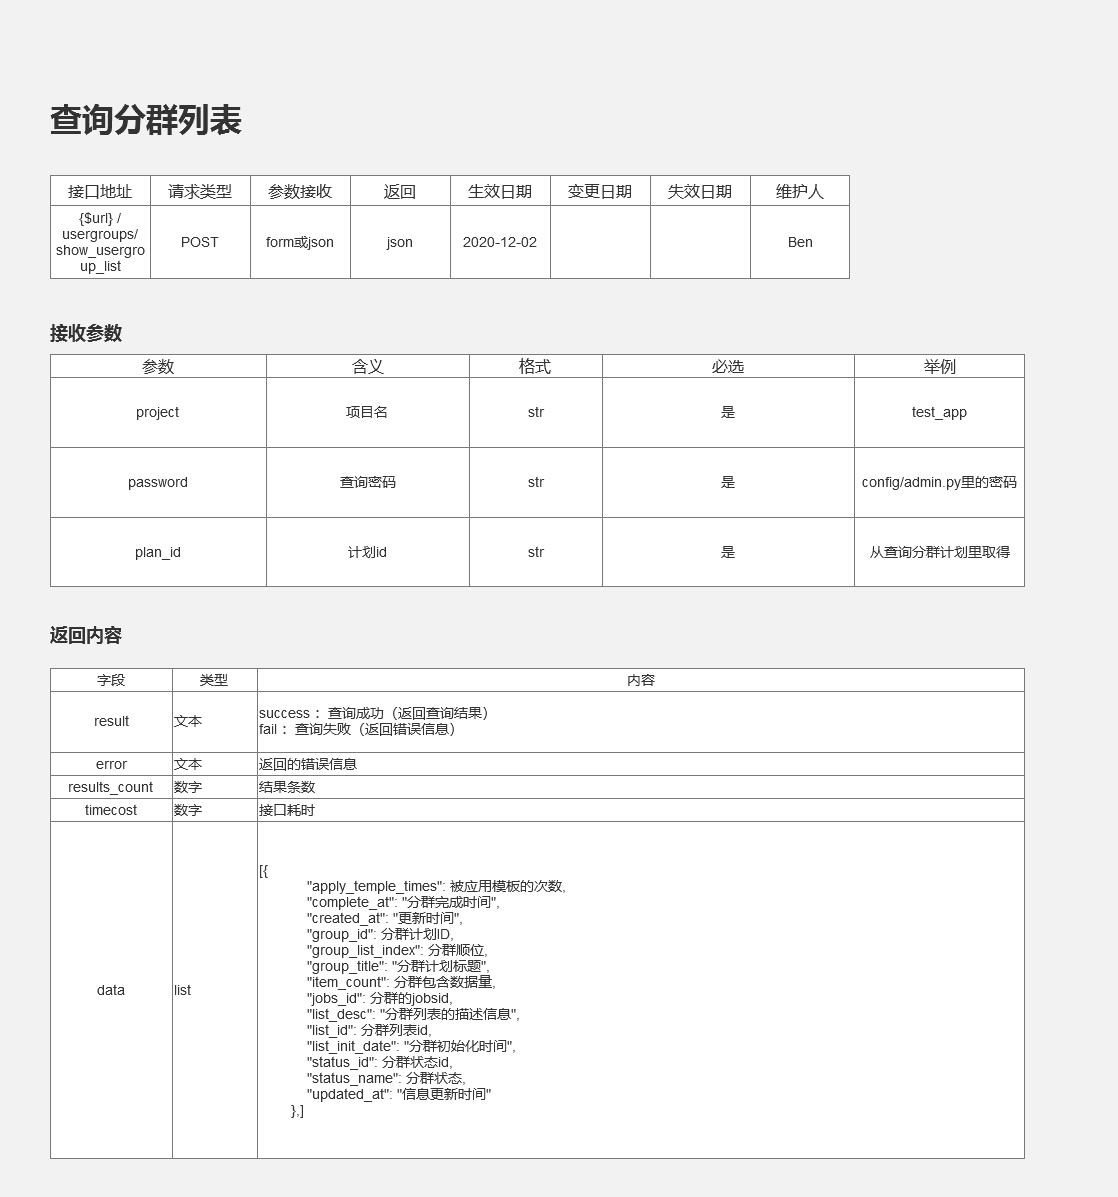
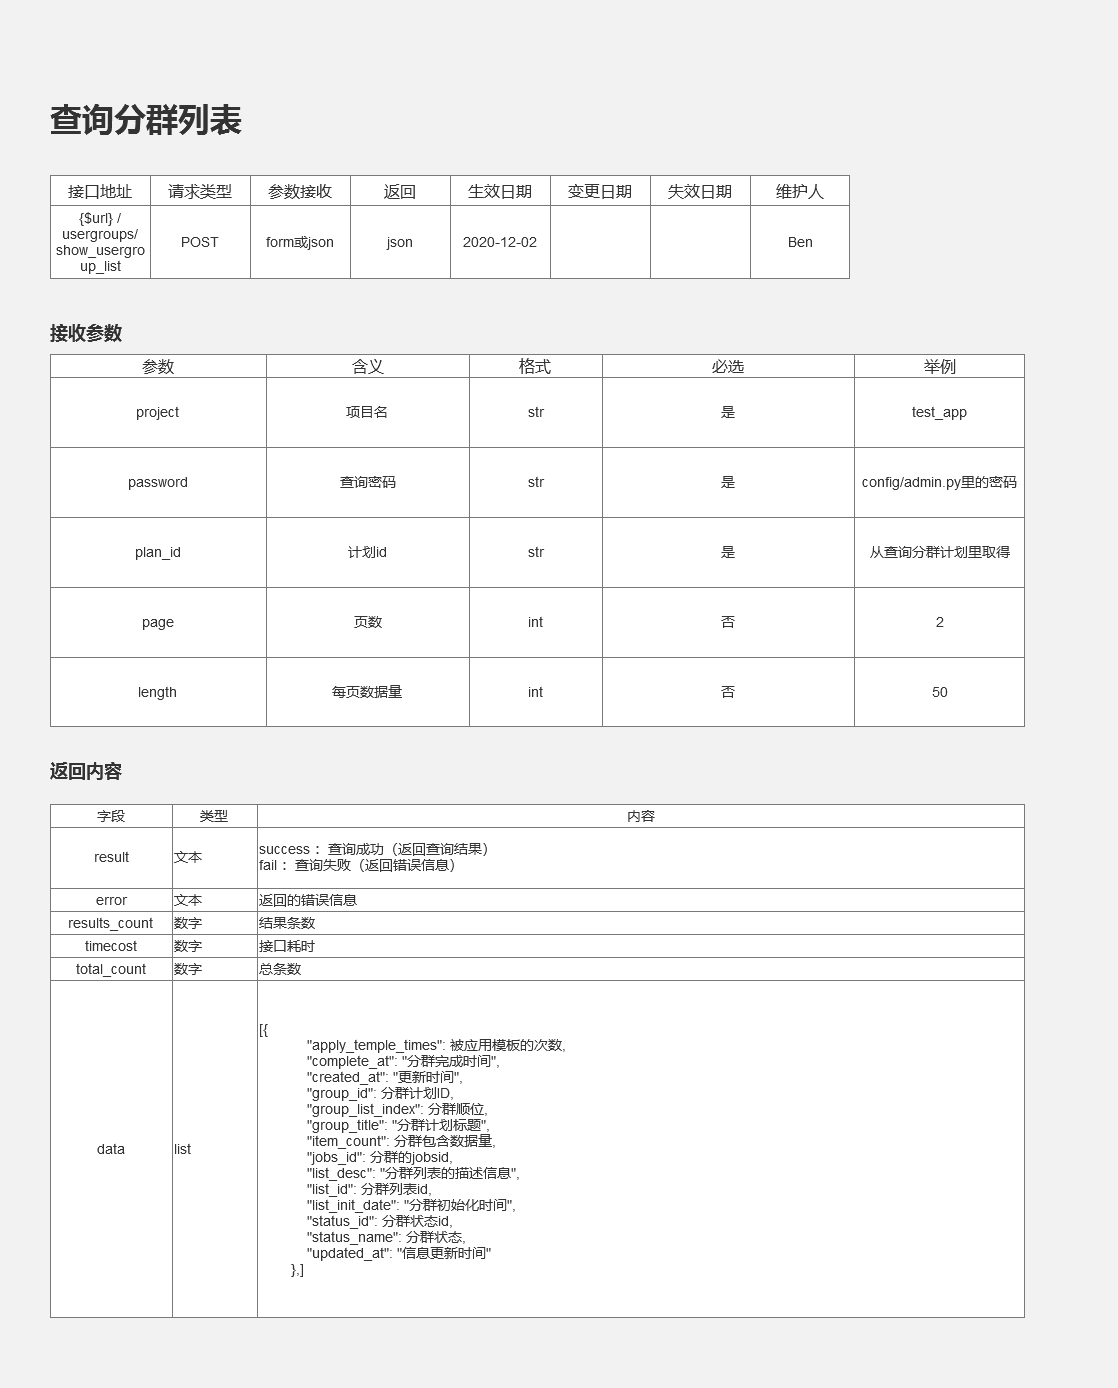
1.推送消息列表接口提供分群信息便于查询 2.修复用户分群计划和用户分群列表不支持分页的问题

diff --git a/component/api_noti.py b/component/api_noti.py
@@ -11,7 +11,7 @@ from component.public_value import get_next_time
 import time
 from flask import request,jsonify,Response,redirect
 import traceback
-from component.db_func import show_project_usergroup_plan,show_project_usergroup_list,duplicate_scheduler_jobs_sql,select_usergroup_data_for_api,select_usergroup_datacount_for_api,disable_usergroup_data_db,show_temples_db,show_noti_group_db,show_noti_group_count_db,show_noti_db,show_noti_count_db,select_noti_group,select_noti_single,disable_noti_db,show_scheduler_jobs_db,show_scheduler_jobs_count_db,select_usergroup_jobs_plan_manual,insert_scheduler_job,select_noti_temple,select_msg_type
+from component.db_func import show_project_usergroup_plan,show_project_usergroup_list,duplicate_scheduler_jobs_sql,select_usergroup_data_for_api,select_usergroup_datacount_for_api,disable_usergroup_data_db,show_temples_db,show_noti_group_db,show_noti_group_count_db,show_noti_db,show_noti_count_db,select_noti_group,select_noti_single,disable_noti_db,show_scheduler_jobs_db,show_scheduler_jobs_count_db,select_usergroup_jobs_plan_manual,insert_scheduler_job,select_noti_temple,select_msg_type,show_project_usergroup_plan_count,show_project_usergroup_list_count
 import json
 from scheduler import create_noti_group
 from component.messenger import send_manual,create_non_usergroup_noti,create_non_usergroup_non_temple_noti
@@ -25,10 +25,15 @@ def show_usergroup_plan():
     password = get_url_params('password')
     project = get_url_params('project')
     mode = get_url_params('mode')
+    length = get_url_params('length')
+    page = get_url_params('page')
+    length = int(length) if length else 50
+    page = int(page) if page else 1
     if password == admin.admin_password and project and request.method == 'POST':#只有正确的密码才能触发动作
         # remark = request.form.get('remark',None)k+'\''
         try:
-            results= show_project_usergroup_plan(project=project)
+            results= show_project_usergroup_plan(project=project,length=length,page=page)
+            total_count = show_project_usergroup_plan_count(project=project)
             temp_json = []
             for item in results[0]:
                 if mode and mode =='cli':
@@ -36,7 +41,7 @@ def show_usergroup_plan():
                 else:
                     temp_json.append({"plan_id":item[0],"group_title":item[1],"group_desc":item[2],"latest_data_list_index":item[3],"repeatable":item[4],"priority_id":item[5],"priority":item[6],"enable_policy_id":item[7],"enable_policy":item[8],"repeat_times":item[9],"latest_data_time":item[10],"latest_apply_temple_id":item[11],"latest_apply_temple_name":item[12],"latest_apply_temple_time":item[13],"created_at":item[14],"updated_at":item[15]})
             time_cost = round(time.time() - start_time,2)
-            returnjson = {'result':'success','results_count':results[1],'timecost':time_cost,'data':temp_json}
+            returnjson = {'result':'success','results_count':results[1],'timecost':time_cost,'data':temp_json,'total_count':total_count[0][0][0]}
             # print(returnjson)
             return jsonify(returnjson)
         except Exception:
@@ -54,10 +59,15 @@ def show_usergroup_list():
     project = get_url_params('project')
     plan_id = get_url_params('plan_id')
     mode = get_url_params('mode')
+    length = get_url_params('length')
+    page = get_url_params('page')
+    length = int(length) if length else 50
+    page = int(page) if page else 1
     if password == admin.admin_password and project and request.method == 'POST' and plan_id:#只有正确的密码才能触发动作
         # remark = request.form.get('remark',None)k+'\''
         try:
-            results= show_project_usergroup_list(project=project,plan_id=plan_id)
+            results= show_project_usergroup_list(project=project,plan_id=plan_id,length=length,page=page)
+            total_count =show_project_usergroup_list_count(project=project,plan_id=plan_id)
             temp_json = []
             for item in results[0]:
                 if mode and mode =='cli':
@@ -66,7 +76,7 @@ def show_usergroup_list():
                     temp_json.append({"list_id":item[0],"group_id":item[1],"group_title":item[2],"group_list_index":item[3],"list_init_date":item[4],"list_desc":item[5],"jobs_id":item[6],"item_count":item[7],"status_id":item[8],"status_name":item[9],"complete_at":item[10],"apply_temple_times":item[11],"created_at":item[12],"updated_at":item[13]})
             
             time_cost = round(time.time() - start_time,2)
-            returnjson = {'result':'success','results_count':results[1],'timecost':time_cost,'data':temp_json}
+            returnjson = {'result':'success','results_count':results[1],'timecost':time_cost,'data':temp_json,'total_count':total_count[0][0][0]}
             # print(returnjson)
             return jsonify(returnjson)
         except Exception:
@@ -214,14 +224,14 @@ def show_noti_group():
     start_time = time.time()
     password = get_url_params('password')
     project = get_url_params('project')
-    length = get_url_params('length')
     plan_id = get_url_params('plan_id')
     list_id = get_url_params('list_id')
     temple_id = get_url_params('temple_id')
-    page = get_url_params('page')
     owner = get_url_params('owner')
     ngid = get_url_params('id')
     mode = get_url_params('mode')
+    length = get_url_params('length')
+    page = get_url_params('page')
     length = int(length) if length else 50
     page = int(page) if page else 1
 
@@ -289,7 +299,7 @@ def show_noti_detial():
                 if mode and mode =='cli':
                     temp_json.append({"noti_id":item[0],"plan_name":item[2],"list_desc":item[5],"data_id":item[8],"temple_name":item[10],"noti_group_id":item[11],"distinct_id":item[12],"type_name":item[14],"priority_name":item[17],"status_name":item[19],"owner":item[20],"recall_result":item[21],"send_at":item[22],"created_at":item[23],"updated_at":item[24]})
                 else:
-                    temp_json.append({"noti_id":item[0],"plan_id":item[1],"plan_name":item[2],"list_id":item[3],"list_init_date":item[4],"list_desc":item[5],"jobs_id":item[6],"list_status":item[7],"data_id":item[8],"temple_id":item[9],"temple_name":item[10],"noti_group_id":item[11],"distinct_id":item[12],"type_id":item[13],"type_name":item[14],"content":json.loads(item[15]),"priority_id":item[16],"priority_name":item[17],"status_id":item[18],"status_name":item[19],"owner":item[20],"recall_result":item[21],"send_at":item[22],"created_at":item[23],"updated_at":item[24]})
+                    temp_json.append({"noti_id":item[0],"plan_id":item[1],"plan_name":item[2],"list_id":item[3],"list_init_date":item[4],"list_desc":item[5],"jobs_id":item[6],"list_status":item[7],"data_id":item[8],"temple_id":item[9],"temple_name":item[10],"noti_group_id":item[11],"distinct_id":item[12],"type_id":item[13],"type_name":item[14],"content":json.loads(item[15]),"priority_id":item[16],"priority_name":item[17],"status_id":item[18],"status_name":item[19],"owner":item[20],"recall_result":item[21],"send_at":item[22],"created_at":item[23],"updated_at":item[24],"user_data":json.loads(item[25]) if item[25] else None})
             time_cost = round(time.time() - start_time,2)
             total_count = resultscount[0][0][0] if resultscount[1] > 0 else 0
             returnjson = {'result':'success','results_count':results[1],'timecost':time_cost,'data':temp_json,'total_count':total_count,'page':page,'length':length}

diff --git a/component/db_func.py b/component/db_func.py
@@ -505,7 +505,8 @@ def insert_usergroup_plan(project,group_title,group_desc,repeatable,priority,ena
     return result
 
 
-def show_project_usergroup_plan(project):
+def show_project_usergroup_plan(project,page=1,length=50):
+    page = (page-1)*length if page and length and page > 1 else 0
     sql = f"""SELECT
 	`{project}_usergroup_plan`.id as id,
 	`{project}_usergroup_plan`.group_title as group_title,
@@ -529,13 +530,21 @@ FROM
 	LEFT JOIN status_code AS sc2 ON {project}_usergroup_plan.enable_policy = sc2.id
 	LEFT JOIN {project}_noti_temple ON latest_apply_temple_id = {project}_noti_temple.id
 ORDER BY
-	`{project}_usergroup_plan`.created_at desc"""
+	`{project}_usergroup_plan`.created_at desc limit {page},{length}"""
     # timenow = int(time.time())
     result = do_tidb_select(sql=sql)
     return result
 
+def show_project_usergroup_plan_count(project):
+    sql = f"""SELECT count(*)
+FROM
+	`{project}_usergroup_plan`"""
+    # timenow = int(time.time())
+    result = do_tidb_select(sql=sql)
+    return result
 
-def show_project_usergroup_list(project,plan_id):
+def show_project_usergroup_list(project,plan_id,page=1,length=50):
+    page = (page-1)*length if page and length and page > 1 else 0
     sql = f"""SELECT
 {project}_usergroup_list.id as list_id,
 {project}_usergroup_list.group_id as group_id,
@@ -558,11 +567,22 @@ FROM
 	
 WHERE
 	group_id = {plan_id}
-	ORDER BY group_list_index desc"""
+	ORDER BY group_list_index desc limit {page},{length} """
     # timenow = int(time.time())
     result = do_tidb_select(sql=sql)
     return result
-
+    
+def show_project_usergroup_list_count(project,plan_id):
+    sql = f"""SELECT
+count(*)
+FROM
+	{project}_usergroup_list 
+	
+WHERE
+	group_id = {plan_id}
+"""
+    result = do_tidb_select(sql=sql)
+    return result
 
 def duplicate_scheduler_jobs_sql(project,list_id):
     sql=f"""insert INTO scheduler_jobs (project,
